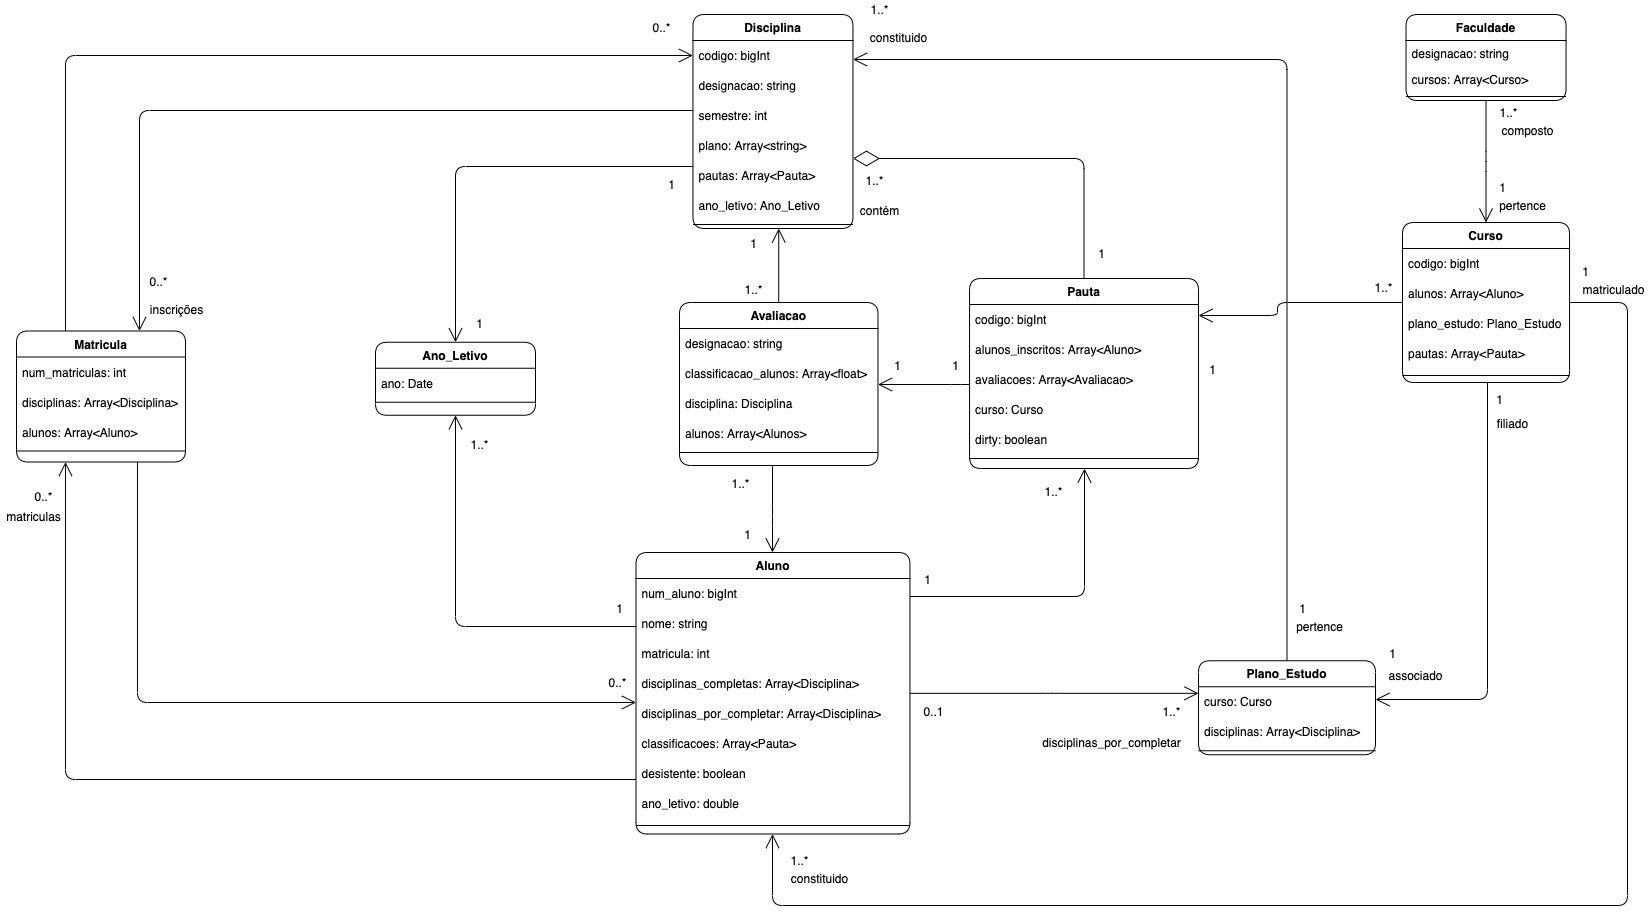
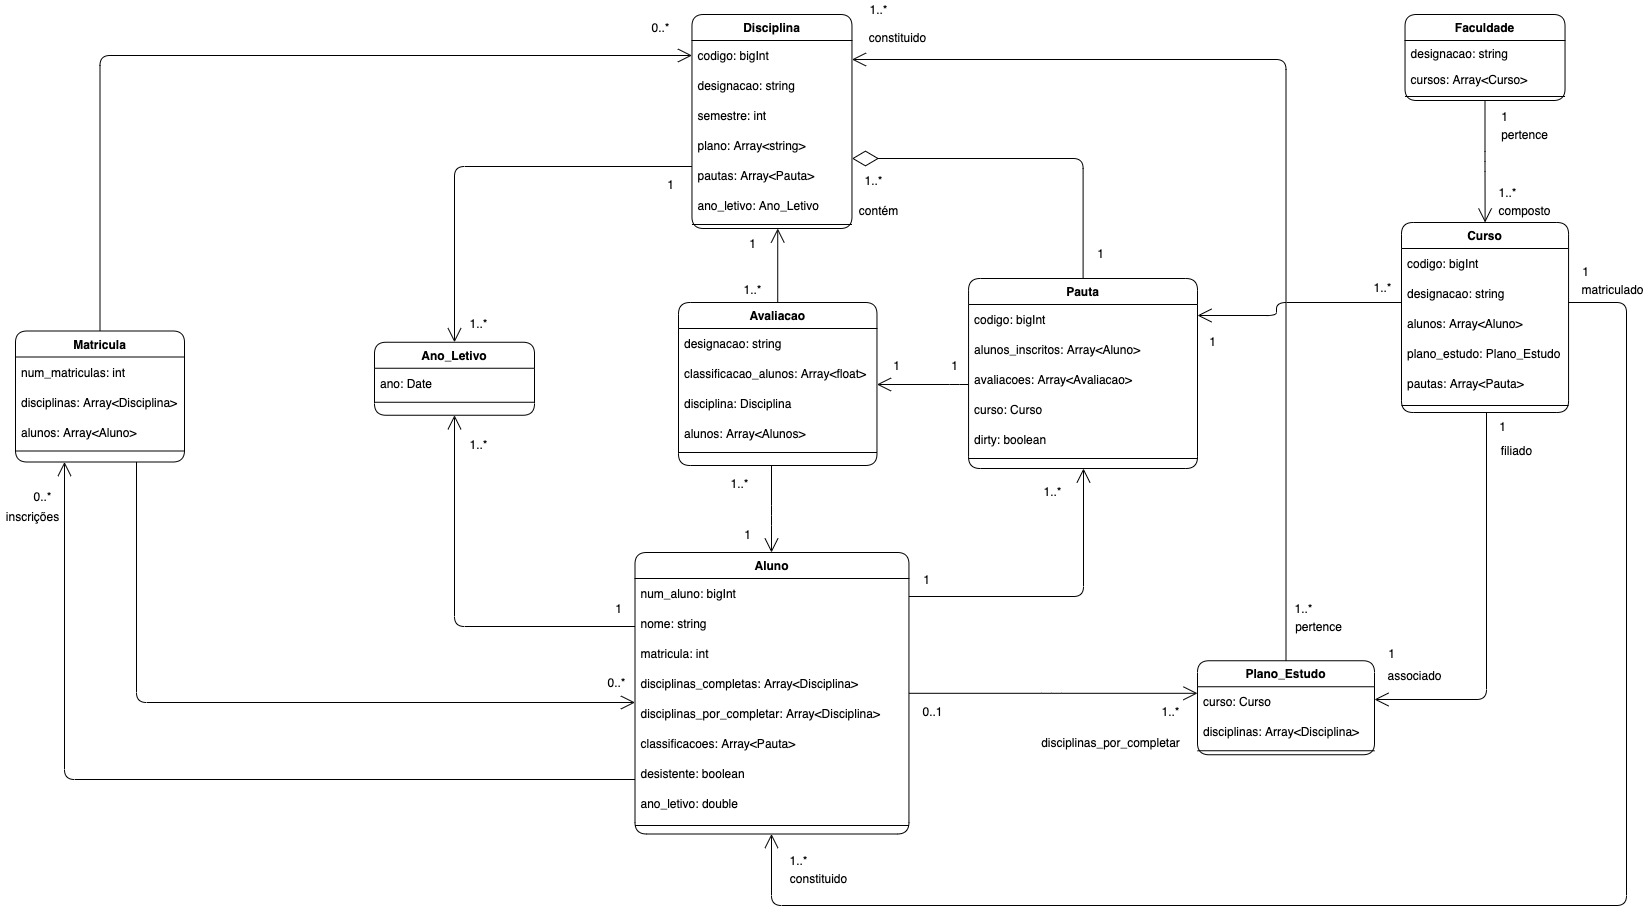
Corrected some database errors and updated Domain Diagram

diff --git a/Laravel_Project/app/Models/Disciplina.php b/Laravel_Project/app/Models/Disciplina.php
@@ -14,13 +14,23 @@ class Disciplina extends Model
         return $this->hasMany(Pauta::class);
     }
 
-    public function avaliacao()
+    public function avaliacoes()
     {
         return $this->hasMany(Avaliacao::class);
     }
 
-    public function plano_estudos()
+    public function planos_estudo()
     {
-        return $this->hasOne(Plano_Estudo::class);
+        return $this->hasMany(Plano_Estudo::class);
+    }
+
+    public function anos_letivos()
+    {
+        return $this->hasMany(Ano_Letivo::class);
+    }
+
+    public function matriculas()
+    {
+
     }
 }

diff --git a/Laravel_Project/app/Models/Avaliacao.php b/Laravel_Project/app/Models/Avaliacao.php
@@ -9,18 +9,13 @@ class Avaliacao extends Model
 {
     use HasFactory;
 
-    public function pauta()
-    {
-        return $this->hasOne(Pauta::class);
-    }
-
     public function disciplina()
     {
         return $this->hasOne(Disciplina::class);
     }
 
-    public function aluno()
+    public function alunos()
     {
-        return $this->hasOne(Aluno::class);
+        return $this->hasMany(Aluno::class);
     }
 }

diff --git a/Laravel_Project/app/Models/Aluno.php b/Laravel_Project/app/Models/Aluno.php
@@ -30,12 +30,12 @@ class Aluno extends Model
         return $this->hasOne(Plano_Estudo::class);
     }
 
-    public function ano_letivo()
+    public function anos_letivos()
     {
         return $this->hasMany(Ano_Letivo::class);
     }
 
-    public function matricula()
+    public function matriculas()
     {
         return $this->hasMany(Matricula::class);
     }

diff --git a/Laravel_Project/app/Models/Pauta.php b/Laravel_Project/app/Models/Pauta.php
@@ -9,16 +9,6 @@ class Pauta extends Model
 {
     use HasFactory;
 
-    public function cursos()
-    {
-        return $this->hasMany(Curso::class);
-    }
-
-    public function displina()
-    {
-        return $this->hasOne(Disciplina::class);
-    }
-
     public function availacao()
     {
         return $this->hasOne(Avaliacao::class);

diff --git a/Laravel_Project/app/Models/Matricula.php b/Laravel_Project/app/Models/Matricula.php
@@ -9,8 +9,13 @@ class Matricula extends Model
 {
     use HasFactory;
 
-    public function aluno ()
+    public function aluno()
     {
         return $this->hasOne(Aluno::class);
+    }
+
+    public function disciplina()
+    {
+        return $this->hasOne(Disciplina::class);
     }
 }

diff --git a/Laravel_Project/database/migrations/2021_12_11_164659_create_cursos_table.php b/Laravel_Project/database/migrations/2021_12_11_164659_create_cursos_table.php
@@ -23,6 +23,7 @@ class CreateCursosTable extends Migration
             $table->string("pauta_id");
             $table->foreign("pauta_id")->references("id")->on("pauta");
             $table->bigInteger("codigo");
+            $table->string("designacao");
         });
     }
 

diff --git a/Laravel_Project/app/Models/Curso.php b/Laravel_Project/app/Models/Curso.php
@@ -16,7 +16,7 @@ class Curso extends Model
 
     public function pautas()
     {
-        return $this->hasOne(Pauta::class);
+        return $this->hasMany(Pauta::class);
     }
 
     public function plano_estudo()

diff --git a/Laravel_Project/app/Models/Ano_Letivo.php b/Laravel_Project/app/Models/Ano_Letivo.php
@@ -8,9 +8,5 @@ use Illuminate\Database\Eloquent\Model;
 class Ano_Letivo extends Model
 {
     use HasFactory;
-
-    public function aluno()
-    {
-        return $this->hasOne(Aluno::class);
-    }
+    
 }

diff --git a/Laravel_Project/app/Models/Plano_Estudo.php b/Laravel_Project/app/Models/Plano_Estudo.php
@@ -18,9 +18,4 @@ class Plano_Estudo extends Model
     {
         return $this->hasMany(Disciplina::class);
     }
-
-    public function aluno()
-    {
-        return $this->hasMany(Aluno::class);
-    }
 }
